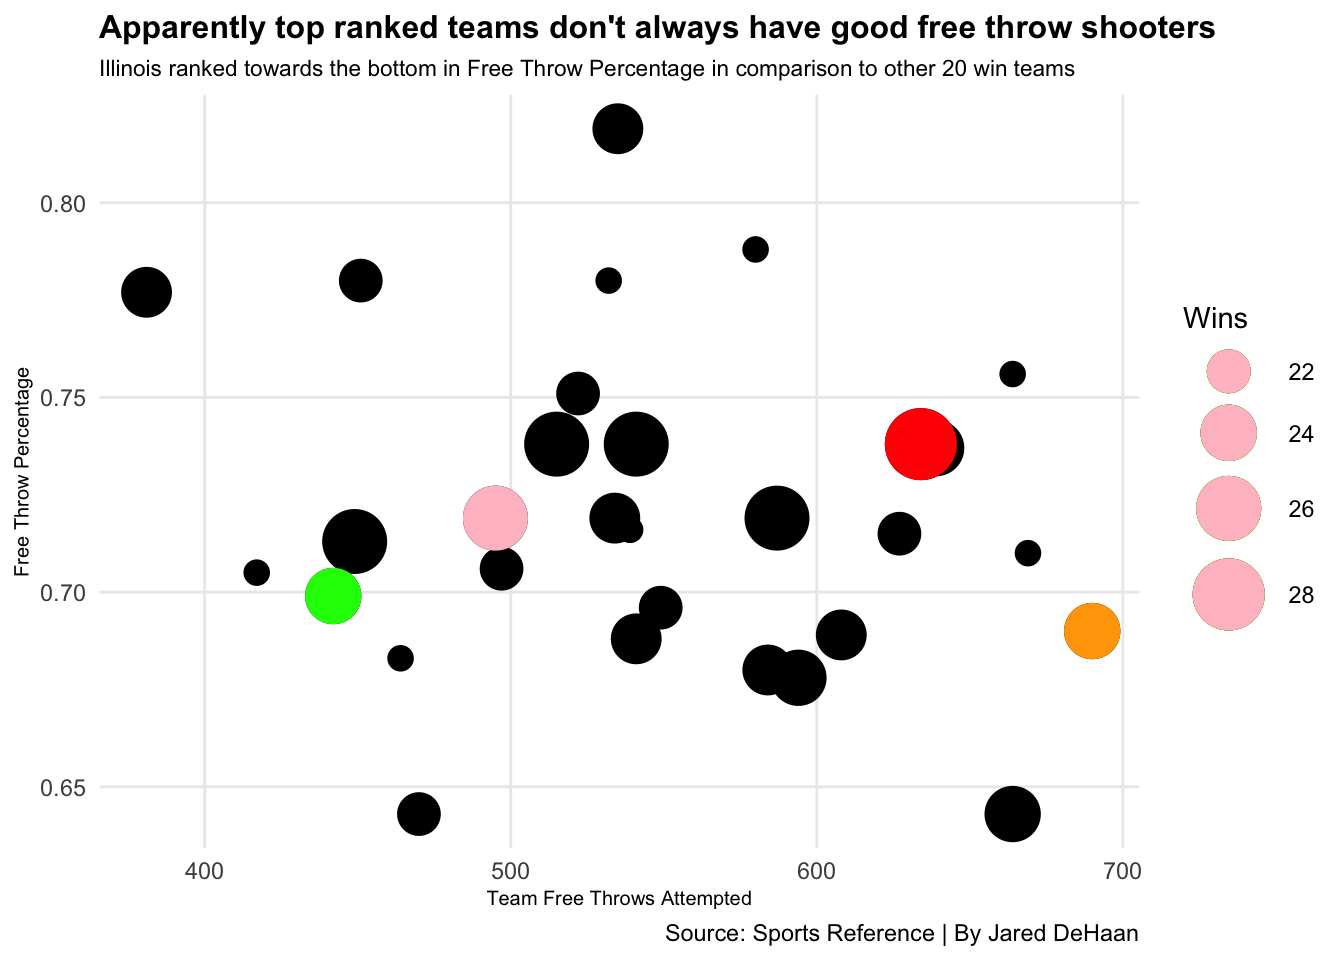
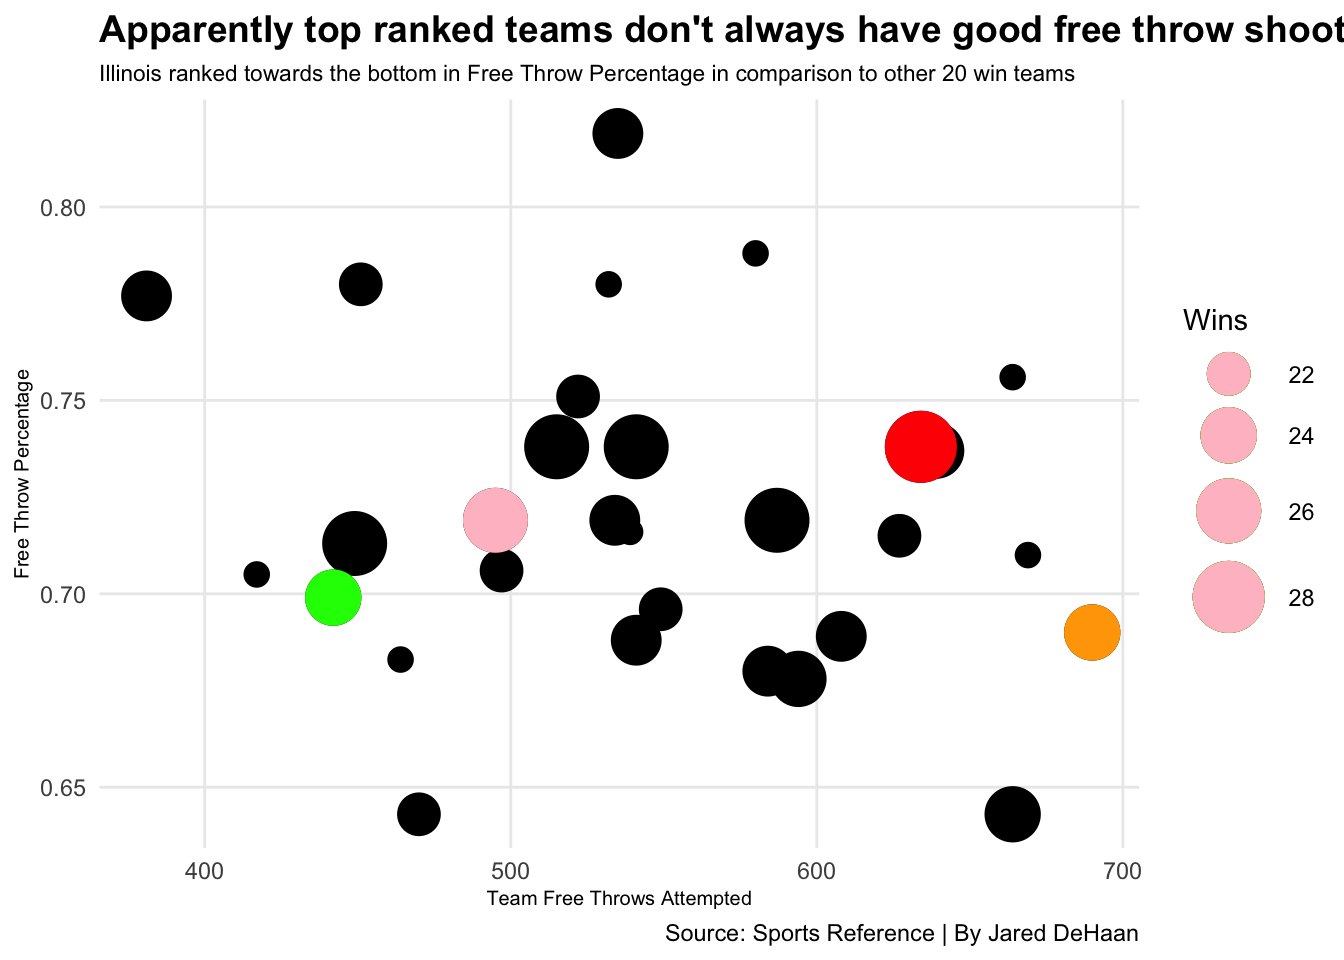
ha

diff --git a/2021/03/27/illinois-missed-their-chance/index.html b/2021/03/27/illinois-missed-their-chance/index.html
@@ -191,7 +191,7 @@ loy &lt;- goodteams %&gt;% mutate(TeamFTPCT = `TeamFT%`) %&gt;%filter(School == 
 labs(x=&quot;Team Free Throws Attempted&quot;, y=&quot;Free Throw Percentage&quot;, title=&quot;Apparently top ranked teams don&#39;t always have good free throw shooters&quot;, subtitle=&quot;Illinois ranked towards the bottom in Free Throw Percentage in comparison to other 20 win teams&quot;, caption=&quot;Source: Sports Reference | By Jared DeHaan&quot;) + 
   theme_minimal() +
   theme(
-    plot.title = element_text(size = 12, face = &quot;bold&quot;),
+    plot.title = element_text(size = 14, face = &quot;bold&quot;),
     axis.title = element_text(size = 7.5), 
     plot.subtitle = element_text(size=8.5), 
     panel.grid.minor = element_blank()
